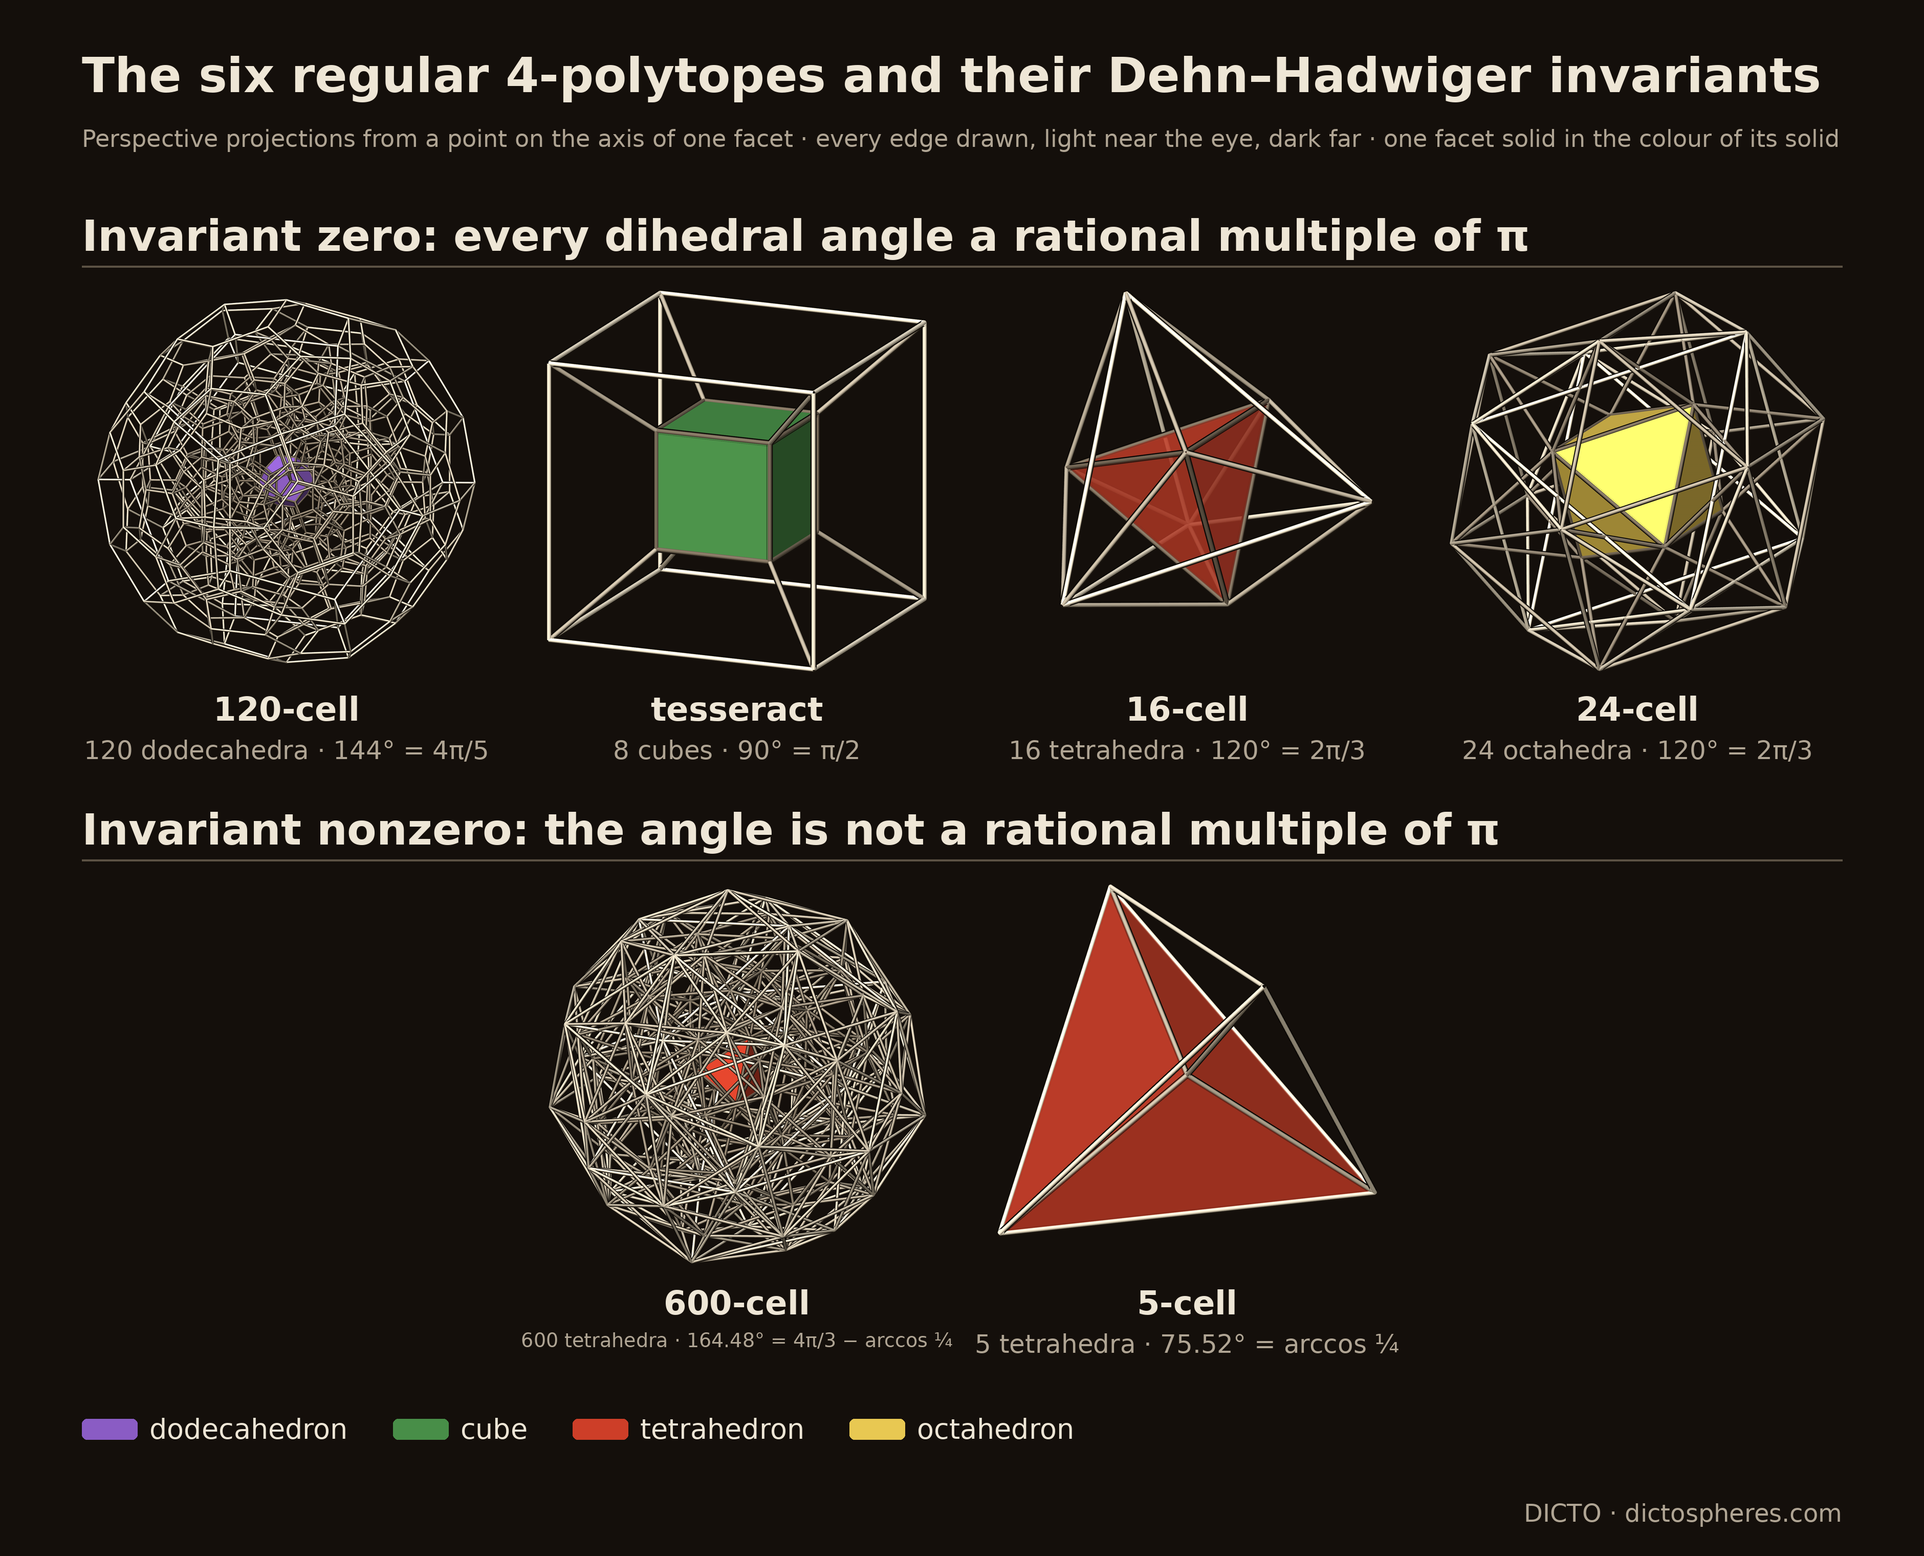
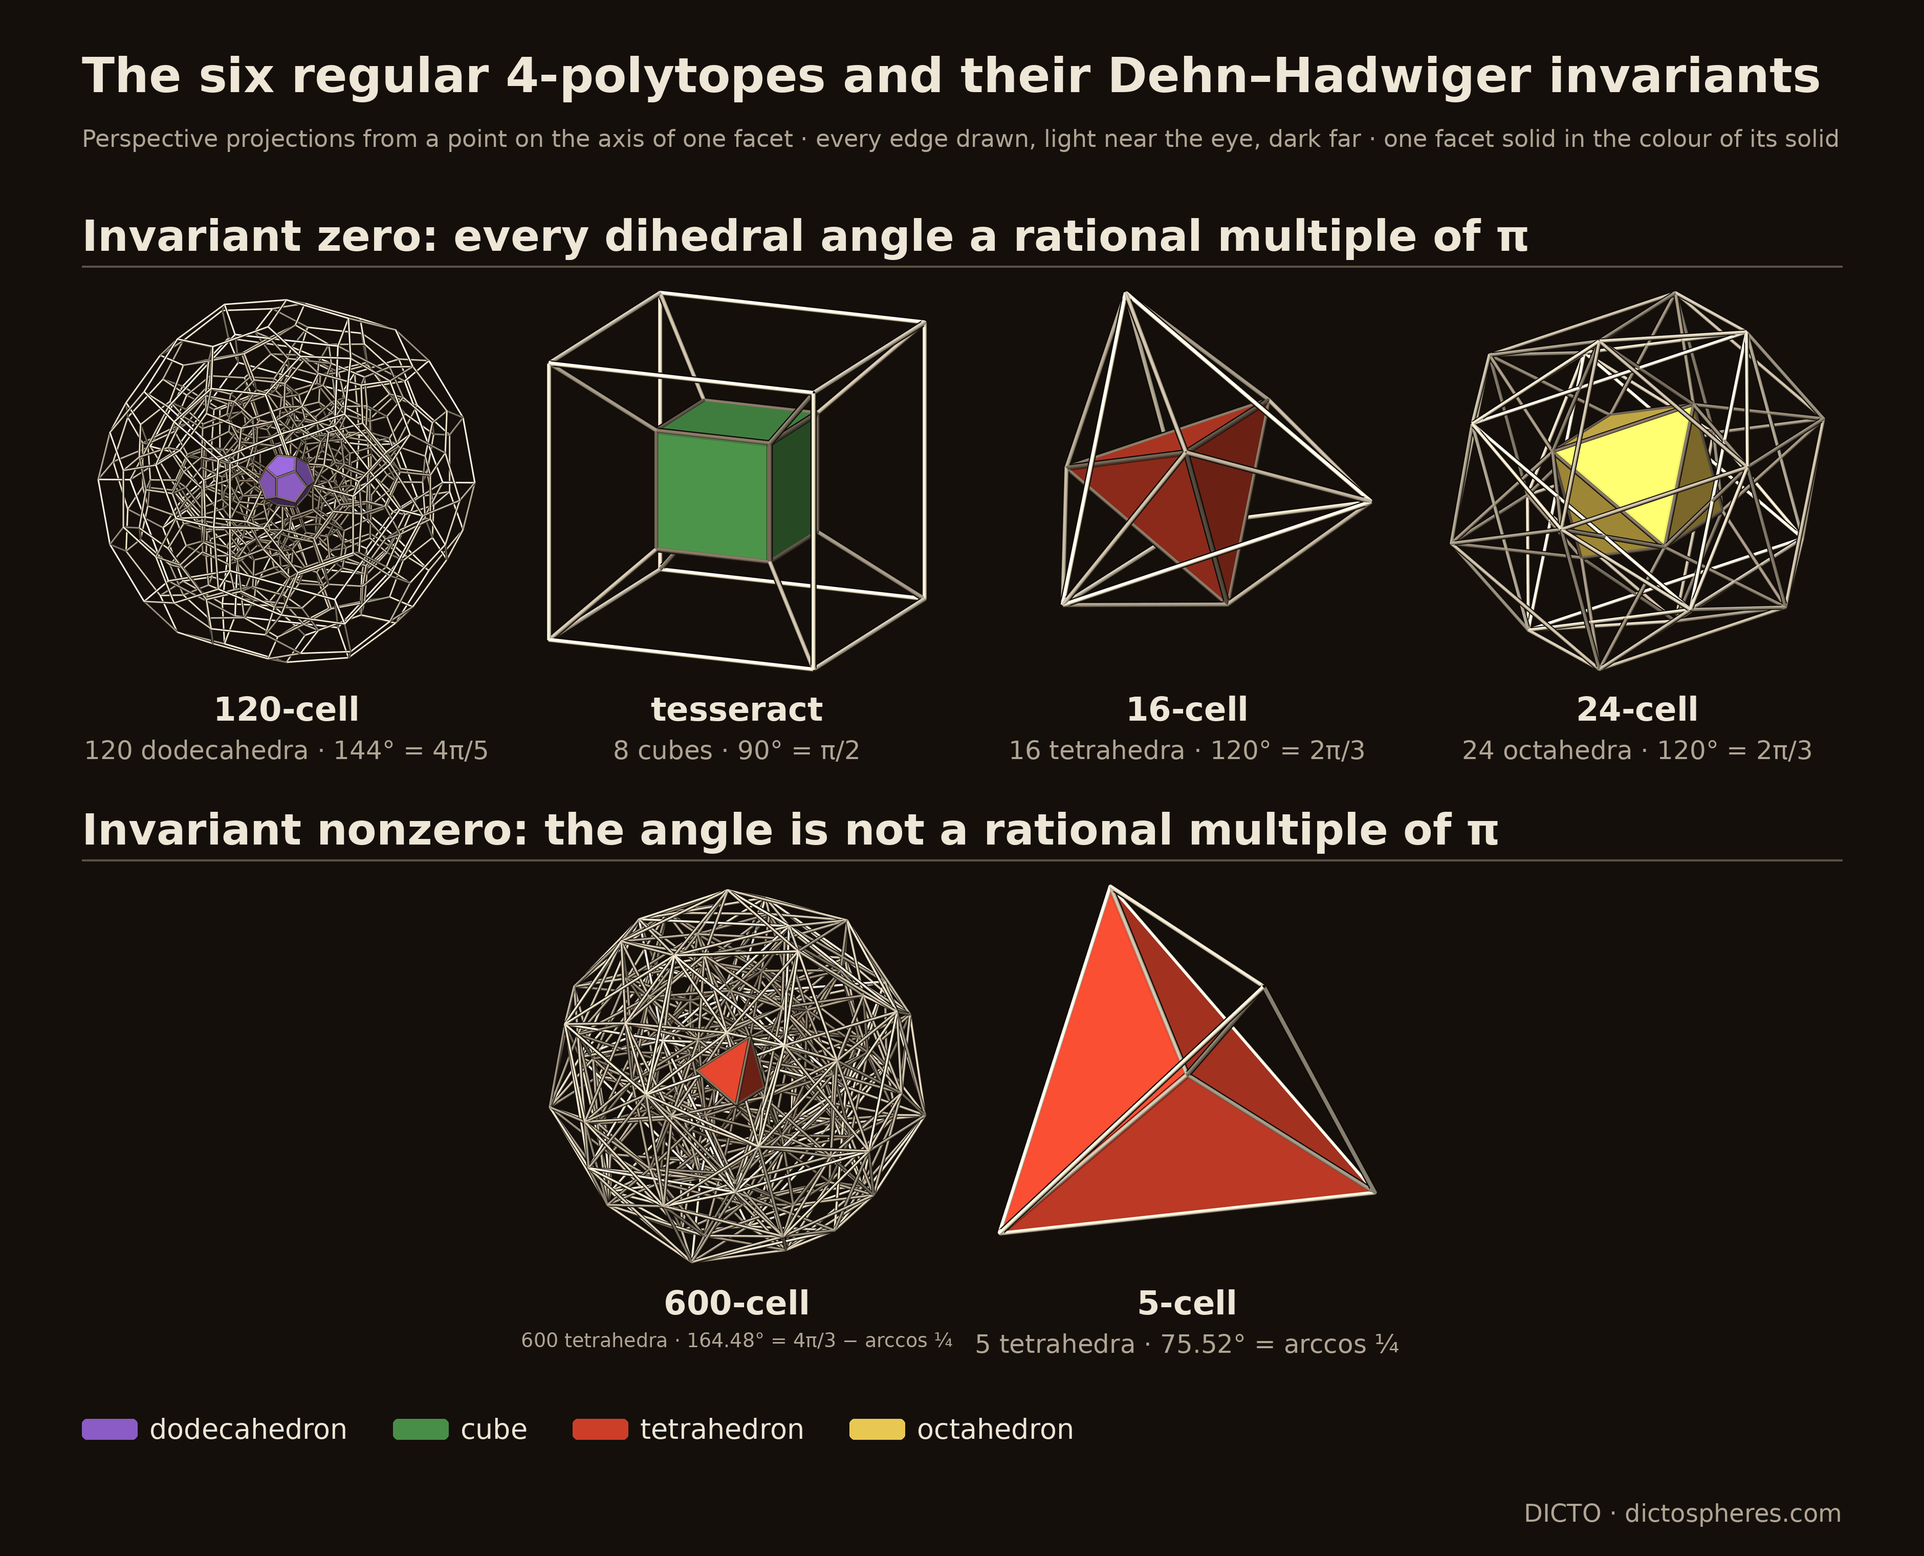
Dehn–Hadwiger 4D figures: solid faces hide the edges behind them (5-cell and 16-cell facets opaque; 120-cell and 600-cell facet drawn over the dense wires); Version 2 draft; dossier figure updated

diff --git a/papers/2026-11-20-dehn-hadwiger-4d/paper.html b/papers/2026-11-20-dehn-hadwiger-4d/paper.html
@@ -9,9 +9,11 @@
 <p class="sub">Machine-checked for the six regular polytopes, and one 600-cell balanced by 120 regular 5-cells</p>
 <div class="meta">
 <b>DICTO</b> (artist, Osaka, Japan) · contact@dictospheres.com · https://dictospheres.com · ORCID 0009-0001-2620-2036<br>
-Paper #116 · Version 1 · 20 November 2026 · DICTO DOI: 10.5281/zenodo.24393967 (all versions; Version 1: 10.5281/zenodo.24393968) · Licence CC BY-SA 4.0 · Lean files, exact checks and data: https://github.com/DICTOR-Master/kaleidohedra/tree/5f0a8d3c/studies (research branch, commit 5f0a8d3c: folders 2026-11-20-palomar-dehn4d, 2026-11-20-600cell-5cell-zero and 2026-11-20-palomar-next-prescore), and the scripts beside this paper.<br>
+Paper #116 · Version 2 (draft) · 20 November 2026 · DICTO DOI: 10.5281/zenodo.24393967 (all versions; Version 1: 10.5281/zenodo.24393968) · Licence CC BY-SA 4.0 · Lean files, exact checks and data: https://github.com/DICTOR-Master/kaleidohedra/tree/5f0a8d3c/studies (research branch, commit 5f0a8d3c: folders 2026-11-20-palomar-dehn4d, 2026-11-20-600cell-5cell-zero and 2026-11-20-palomar-next-prescore), and the scripts beside this paper.<br>
 DICTO: the step from the Dehn Canon to four dimensions, in his order: the bridge first, then the six regular 4-polytopes, then the 5-cell against the 600-cell, stated only if true; the study of the 600-cell with 5-cell caps; the order paper first, then the formal entry. Computation, proofs, verification and drafting with Claude (Anthropic).
 </div>
+
+<div class="status"><b>Version 2 (draft): figures redrawn so hidden edges are hidden; no result changes; delete this box at publication.</b></div>
 
 <div class="abstract"><b>Abstract.</b> Two solids are scissors congruent when one can be cut into finitely many pieces that, moved rigidly, fill the other. In 1901 Dehn showed that volume does not decide this in space: the sum over the edges of length ⊗ dihedral angle, with angles counted modulo rational multiples of π, cannot be changed by cutting [1]. Hadwiger carried the invariant to every dimension in 1954: in ℝ<sup>n</sup> the faces of dimension n − 2 take the place of the edges [3]. We prove this invariant in Lean 4 with Mathlib, read from the solid as a set, and compute it for the six regular polytopes of four-dimensional space. <b>Main theorem</b> (Theorem 1, Lean): scissors-congruent convex polytopes have the same Dehn–Hadwiger invariant, in every finite dimension, and so do finite unions of them; in ℝ⁴ the tesseract, the 16-cell, the 24-cell and the 120-cell have invariant zero, the 5-cell has A<sub>5</sub> ⊗ arccos(1/4) and the 600-cell A<sub>600</sub> ⊗ (4π/3 − arccos(1/4)), both nonzero; hence no similar copy of the 5-cell or of the 600-cell is scissors congruent to a similar copy of any of the other four, nor to a similar copy of the other. The 600-cell's dihedral angle is 4π/3 minus the 5-cell's, so their invariants have opposite signs. <b>Theorem 2</b> (exact) follows: one 600-cell and n regular 5-cells, of edges a and b, have total invariant zero exactly when n b² = 120 a², so 120 5-cells of the same edge balance one 600-cell. They fit on it as caps: the 120 facets of one orbit of left multiplication by the 600-cell's own quaternion group take every edge once, the caps' tips form a larger 600-cell of radius √2 times the circumradius, and the capped solid is star-shaped, chiral and never convex. By Jessen's theorem it is scissors congruent to a 4-cube of edge 5<sup>3/8</sup>√φ a ≈ 2.32599 a (existence only). The mathematics of Theorem 1 is classical; what is claimed is its machine-checked proof. By their centres the five cap sets are one state of Coxeter's compound of ten 600-cells in the 120-cell, the five cosets of the binary tetrahedral group in 2I, and the caps lie on the 600-cell's own mirrors (§6). The relation of Theorem 2 and its cap set were not found in the sources checked.</div>
 
@@ -55,7 +57,7 @@ the sum over the classes that occur (a finite sum for convex polytopes).</p>
 <h2>4. The six regular 4-polytopes</h2>
 <p class="hook">Every regular four-dimensional solid has one angle between neighbouring cells. If that angle is a whole-number fraction of a half turn, the invariant is zero; if not, it is not. Four of the six have such fractions; the 5-cell and the 600-cell do not.</p>
 <p>Table 1 lists the six in the order dodecahedron, icosahedron, cube, tetrahedron, octahedron of their three-dimensional analogues (the 120-cell {5, 3, 3} for {5, 3}, the 600-cell {3, 3, 5} for {3, 5}, the tesseract, the 5-cell, the 16-cell {3, 3, 4} for {3, 4}), with the 24-cell, which has none, last. The Lean files define each by its facet normals, as {x : ⟨n, x⟩ ≤ 1} (§7): the tesseract [−1, 1]⁴, the 16-cell |x<sub>1</sub>| + … + |x<sub>4</sub>| ≤ 1, the 24-cell |x<sub>i</sub>| + |x<sub>j</sub>| ≤ 1, the 5-cell by five normals of length 4 with dot products −4, the 120-cell by the 120 corners of a 600-cell and the 600-cell by the 600 corners of a 120-cell, both in ℤ[φ]. The counts and angles of Table 1 were recomputed for this paper in exact arithmetic from corner coordinates (<code>scripts/exact4d.py</code>): the facets are found from the facet normals, the ridges as the vertex sets shared by two facets, and the angle at each ridge from the two normals, one angle per polytope.</p>
-<figure><img src="figures/fig-six.png" alt="The six regular 4-polytopes in perspective projection, one facet of each solid in colour"><figcaption><b>Figure 1.</b> The six regular 4-polytopes, rendered from exact corners (<code>scripts/fig_scenes.py</code>, with asserts that every edge is drawn at its exact length and that the coloured facet has the right number of corners). Each is projected in perspective from a point on the axis of one facet, outside the polytope, onto the 3-space through its centre; edges run from light (near the eye in four dimensions) to dark (far). The facet farthest from the eye, small and central, is drawn solid in the app colour of its solid: dodecahedron violet, cube green, tetrahedron red, octahedron yellow; for the 16-cell and the 5-cell, whose tetrahedra are large in any such view, a far facet is drawn see-through. Below each name: the facets and the dihedral angle. Upper row: invariant zero (Theorem 6 (i)); lower row: nonzero (Theorem 6 (ii), (iii)).</figcaption></figure>
+<figure><img src="figures/fig-six.png" alt="The six regular 4-polytopes in perspective projection, one facet of each solid in colour"><figcaption><b>Figure 1.</b> The six regular 4-polytopes, rendered from exact corners (<code>scripts/fig_scenes.py</code>, with asserts that every edge is drawn at its exact length and that the coloured facet has the right number of corners). Each is projected in perspective from a point on the axis of one facet, outside the polytope, onto the 3-space through its centre; edges run from light (near the eye in four dimensions) to dark (far). The facet farthest from the eye, small and central, is drawn solid in the app colour of its solid: dodecahedron violet, cube green, tetrahedron red, octahedron yellow; for the 16-cell and the 5-cell, whose tetrahedra are large in any such view, a far facet is drawn solid. Solid faces hide the edges behind them; in the 120-cell and the 600-cell the small facet is drawn over the dense edges, so that it shows. Below each name: the facets and the dihedral angle. Upper row: invariant zero (Theorem 6 (i)); lower row: nonzero (Theorem 6 (ii), (iii)).</figcaption></figure>
 <table class="w nw">
 <caption><b>Table 1.</b> The six regular 4-polytopes (corners, edges, ridges, facets; the ridge polygon; the dihedral angle at every ridge, exact; its class; the invariant for edge a). <i>Exact</i> (scripts/audit.py); the invariants in the last column are <i>Lean</i> as zero or nonzero (Theorem 6), and <i>exact</i> as written with the areas.</caption>
 <tr><th>polytope</th><th>counts</th><th>facets, ridges</th><th>cos of the dihedral angle</th><th>angle</th><th>in ℚπ</th><th>invariant</th></tr>

diff --git a/papers/2026-11-20-dehn-hadwiger-4d/scripts/render3d.py b/papers/2026-11-20-dehn-hadwiger-4d/scripts/render3d.py
@@ -3,6 +3,8 @@
 # as tubes (one colour per edge, an outline tube behind it so dark edges stay visible on the dark ground) with balls at the
 # corners. Lights at 0.8 of the Dehn Canon values here, so that the pale silver and cream faces keep their tone (no faces
 # washed out to white). Orthographic camera; project() gives the pixel of a 3D point exactly as the camera draws it, for labels.
+# 20 Nov (Dehn–Hadwiger 4D, Version 2): a part marked 'top' is drawn in a second pass after the depth buffer is cleared, so
+# nothing hides it (a small coloured facet inside a dense wire solid); within each pass solid faces hide what lies behind them.
 import json, os
 import numpy as np
 
@@ -20,20 +22,22 @@ window.show = (i) => { const s = SC[i]; scene = new THREE.Scene(); const E = s.E
   scene.add(new THREE.HemisphereLight(0xffffff, 0xb8b0a0, 0.50)); const F = new THREE.DirectionalLight(0xffffff, 0.32); F.position.copy(dir.clone().multiplyScalar(6)); scene.add(F);
   const L = new THREE.DirectionalLight(0xffffff, 0.50); L.position.copy(dir.clone().multiplyScalar(4).add(new THREE.Vector3(-2, 3, 1))); scene.add(L);
   cam = new THREE.OrthographicCamera(-E, E, E, -E, 0.1, 50); cam.up.set(0, 1, 0); cam.position.copy(dir.clone().multiplyScalar(10)); cam.lookAt(0, 0, 0);
-  const grp = new THREE.Group();
-  for (const d of s.parts) {
+  const grp = new THREE.Group(), top = new THREE.Group();
+  for (const d of s.parts) { const grp0 = d.top ? top : grp;
     const g = new THREE.BufferGeometry(); const p = new Float32Array(d.t.length * 9), c = new Float32Array(d.t.length * 9); let k = 0;
     d.t.forEach((tr, ti) => { const col = new THREE.Color(d.c[ti]); for (const j of tr) { p[k] = d.v[j][0]; p[k + 1] = d.v[j][1]; p[k + 2] = d.v[j][2]; c[k] = col.r; c[k + 1] = col.g; c[k + 2] = col.b; k += 3; } });
     g.setAttribute('position', new THREE.BufferAttribute(p, 3)); g.setAttribute('color', new THREE.BufferAttribute(c, 3)); g.computeVertexNormals();
     const glass = d.a < 1; const mesh = new THREE.Mesh(g, new THREE.MeshStandardMaterial({ vertexColors: true, roughness: 0.5, metalness: 0.05, flatShading: true, transparent: glass, opacity: d.a, depthWrite: !glass, side: THREE.DoubleSide, polygonOffset: true, polygonOffsetFactor: 1, polygonOffsetUnits: 1 }));
-    if (glass) mesh.renderOrder = 5; grp.add(mesh);
+    if (glass) mesh.renderOrder = 5; grp0.add(mesh);
     for (const e of (d.tubes || [])) {
-      grp.add(tube(d.v[e[0]], d.v[e[1]], d.rad * E, e[2], false));
-      if (e[3]) grp.add(tube(d.v[e[0]], d.v[e[1]], d.rad * E * 1.55, e[3], true));
+      grp0.add(tube(d.v[e[0]], d.v[e[1]], d.rad * E, e[2], false));
+      if (e[3]) grp0.add(tube(d.v[e[0]], d.v[e[1]], d.rad * E * 1.55, e[3], true));
     }
-    for (const b of (d.balls || [])) { const m = new THREE.Mesh(new THREE.SphereGeometry(d.rad * E * 1.25, 20, 14), new THREE.MeshStandardMaterial({ color: b[1], roughness: 0.55 })); m.position.set(...d.v[b[0]]); grp.add(m); }
+    for (const b of (d.balls || [])) { const m = new THREE.Mesh(new THREE.SphereGeometry(d.rad * E * 1.25, 20, 14), new THREE.MeshStandardMaterial({ color: b[1], roughness: 0.55 })); m.position.set(...d.v[b[0]]); grp0.add(m); }
   }
-  scene.add(grp); r.render(scene, cam); return SC.length; };
+  scene.add(grp); scene.add(top); r.autoClear = true; top.visible = false; r.render(scene, cam);
+  if (top.children.length) { r.autoClear = false; grp.visible = false; top.visible = true; r.clearDepth(); r.render(scene, cam); grp.visible = true; r.autoClear = true; }
+  return SC.length; };
 </script></body></html>'''
 
 

diff --git a/papers/2026-11-20-dehn-hadwiger-4d/scripts/fig_scenes.py b/papers/2026-11-20-dehn-hadwiger-4d/scripts/fig_scenes.py
@@ -2,8 +2,10 @@
 # polytopes of exact4d.py, with asserts on every drawn geometry (data/fig-scenes.json).
 #   Figure 1 (six.html): the six regular 4-polytopes, each by a perspective projection from a point on the axis of one
 #     facet, outside the polytope; edges as tubes shaded from light (near the eye in 4D) to dark (far); the facet farthest
-#     from the eye (the small one in the middle; for the 5-cell and the 16-cell one of the large tetrahedra, see-through) is drawn in the app colour of its solid: dodecahedron violet,
+#     from the eye (the small one in the middle; for the 5-cell and the 16-cell one of the large tetrahedra) is drawn solid in the app colour of its solid: dodecahedron violet,
 #     tetrahedron red, cube green, octahedron yellow. Every edge of each polytope is drawn, none added.
+#     Solid faces hide the edges behind them (depth buffer, every facet opaque). In the 120-cell and the 600-cell the small
+#     facet, deep inside a dense wire solid, is drawn in a second pass over the wires (part 'top'), with its own edges.
 #   Figure 3 (caps.html): the 600-cell with the 120 caps of one left orbit. (a) the 20 facets at one corner, projected
 #     orthogonally to the corner's axis: the 4 capped facets solid, their tips and cap edges; (b) the whole solid in
 #     perspective; (c) the 120 tips with the edges of their own 600-cell, round the 600-cell, at the scale of (b).
@@ -78,7 +80,7 @@ def hull_part(P3, col, alpha=1.0):
 P = X.six(); LOG = {}
 # ---------------- Figure 1: the six polytopes -------------------------------------------------------------------------------
 EYE = {'120-cell': 1.32, '600-cell': 2.0, 'tesseract': 1.25, '5-cell': 3.2, '16-cell': 2.4, '24-cell': 2.2}
-ALPHA = {'5-cell': 0.5, '16-cell': 0.6}   # simplex facets are large in any projection: drawn see-through so the edges behind show
+TOP = {'120-cell', '600-cell'}             # the small facet drawn over the dense wires, so that it shows
 RAD = {'120-cell': 0.0042, '600-cell': 0.0055, 'tesseract': 0.010, '5-cell': 0.010, '16-cell': 0.010, '24-cell': 0.008}
 sc = []
 for nm in X.ORDER:
@@ -92,7 +94,11 @@ for nm in X.ORDER:
     t = (w - w.min()) / (w.max() - w.min()); cols = [hexc(FAR + (NEAR - FAR) * (t[i] + t[j]) / 2) for i, j in p.E]
     far = int(np.argmin(N @ c)); cell = sorted(p.cells[far])
     check(f'{nm}: the shaded facet is a {CELL[nm]}', len(cell) == CELLN[CELL[nm]], f'{len(cell)} corners')
-    parts = [hull_part(P3[cell], APP[CELL[nm]], ALPHA.get(nm, 1.0)), edge_part(P3, p.E, cols, RAD[nm])]
+    parts = [hull_part(P3[cell], APP[CELL[nm]]), edge_part(P3, p.E, cols, RAD[nm])]
+    if nm in TOP:
+        own = [k for k, (i, j) in enumerate(p.E) if i in p.cells[far] and j in p.cells[far]]
+        check(f'{nm}: the facet drawn on top carries its own {len(own)} edges', len(own) == {'dodecahedron': 30, 'tetrahedron': 6}[CELL[nm]])
+        parts += [dict(parts[0], top=True), dict(edge_part(P3, [p.E[k] for k in own], [cols[k] for k in own], RAD[nm]), top=True)]
     sc.append({'E': ext(P3, VIEW), 'dir': VIEW.tolist(), 'parts': parts, 'name': nm})
     LOG[nm] = {'counts': p.counts(), 'eye': EYE[nm], 'shaded': CELL[nm]}
 write(os.path.join(OUT, 'six.html'), sc)

diff --git a/papers/2026-11-20-dehn-hadwiger-4d/scripts/audit.py b/papers/2026-11-20-dehn-hadwiger-4d/scripts/audit.py
@@ -250,7 +250,7 @@ for w in ('fire', 'water', 'earth', 'aether', 'void', 'wind'):
 ok('Queens only in the two notes (titles of references aside)', body.count('White Queen') == 1 and body.count('Red Queen') == 1)
 ok('DICTO DOI labels', all(m.startswith('DICTO DOI:') for m in re.findall(r'DICTO DOI:[^,.]*', flat)))
 ok('status box present (draft)', 'delete this box at publication' in flat)
-ok('paper number at publication', 'Paper # (at publication)' in flat)
+ok('paper number at publication (or the number given: #116)', 'Paper # (at publication)' in flat or 'Paper #116 ' in flat)
 
 print('AUDIT OK' if not FAILS else f'AUDIT FAIL ({len(FAILS)}): ' + '; '.join(FAILS))
 sys.exit(1 if FAILS else 0)
